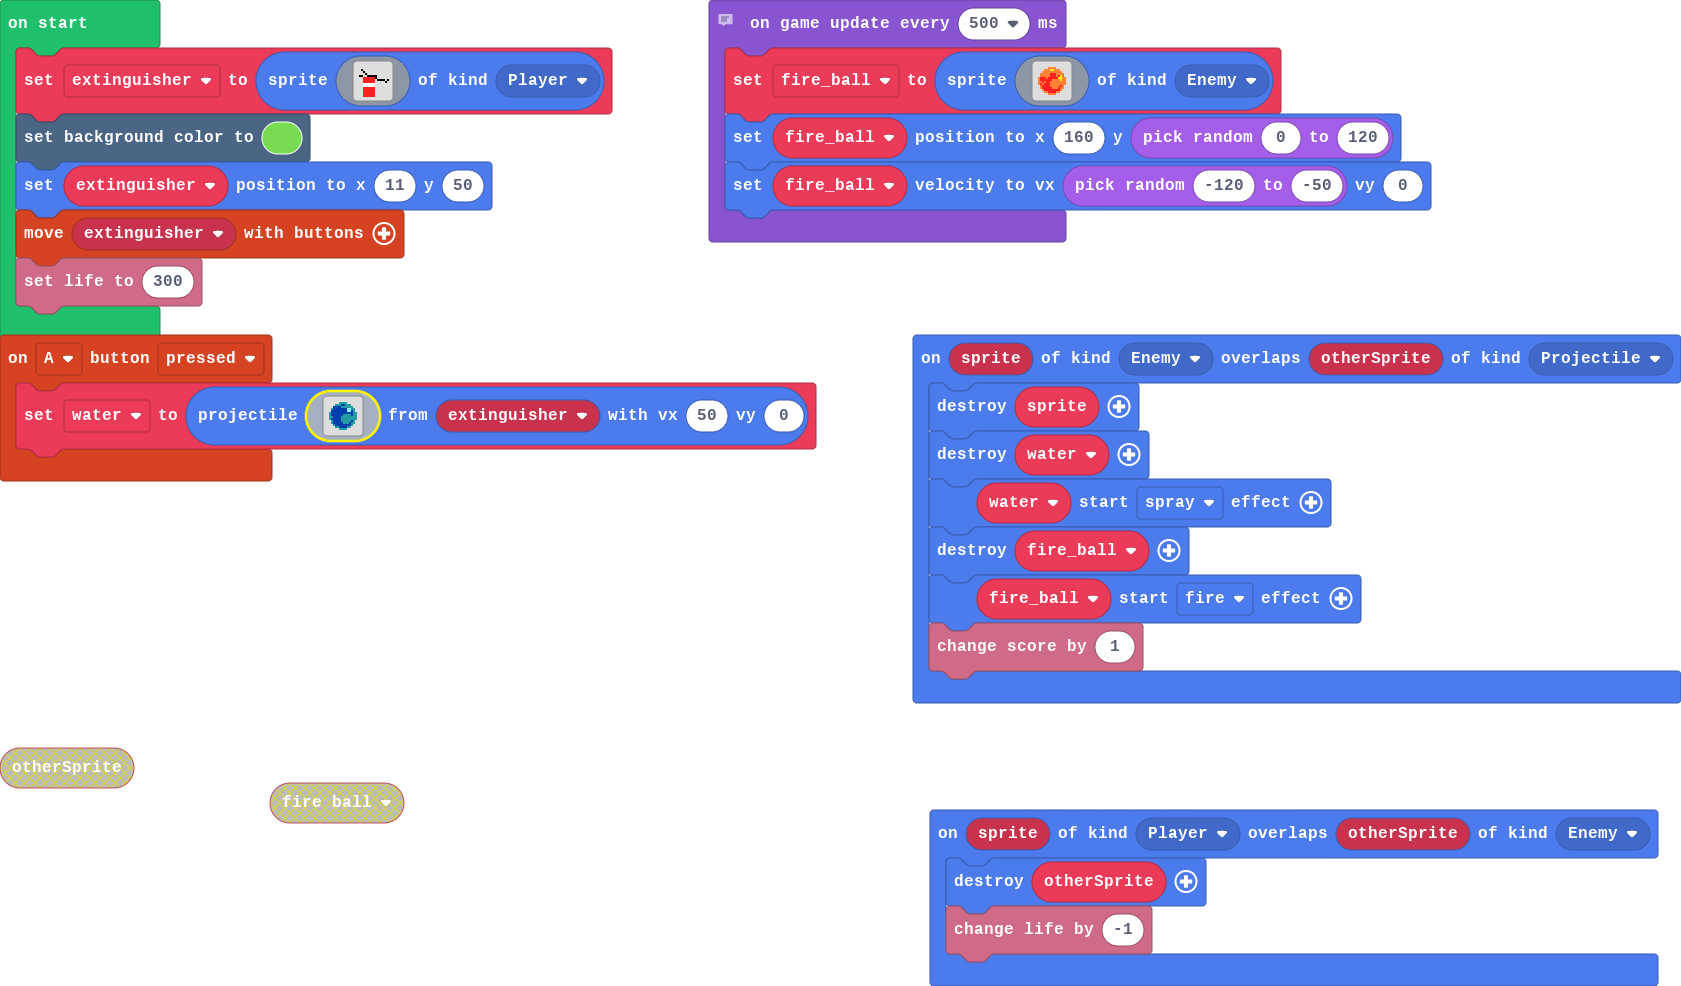
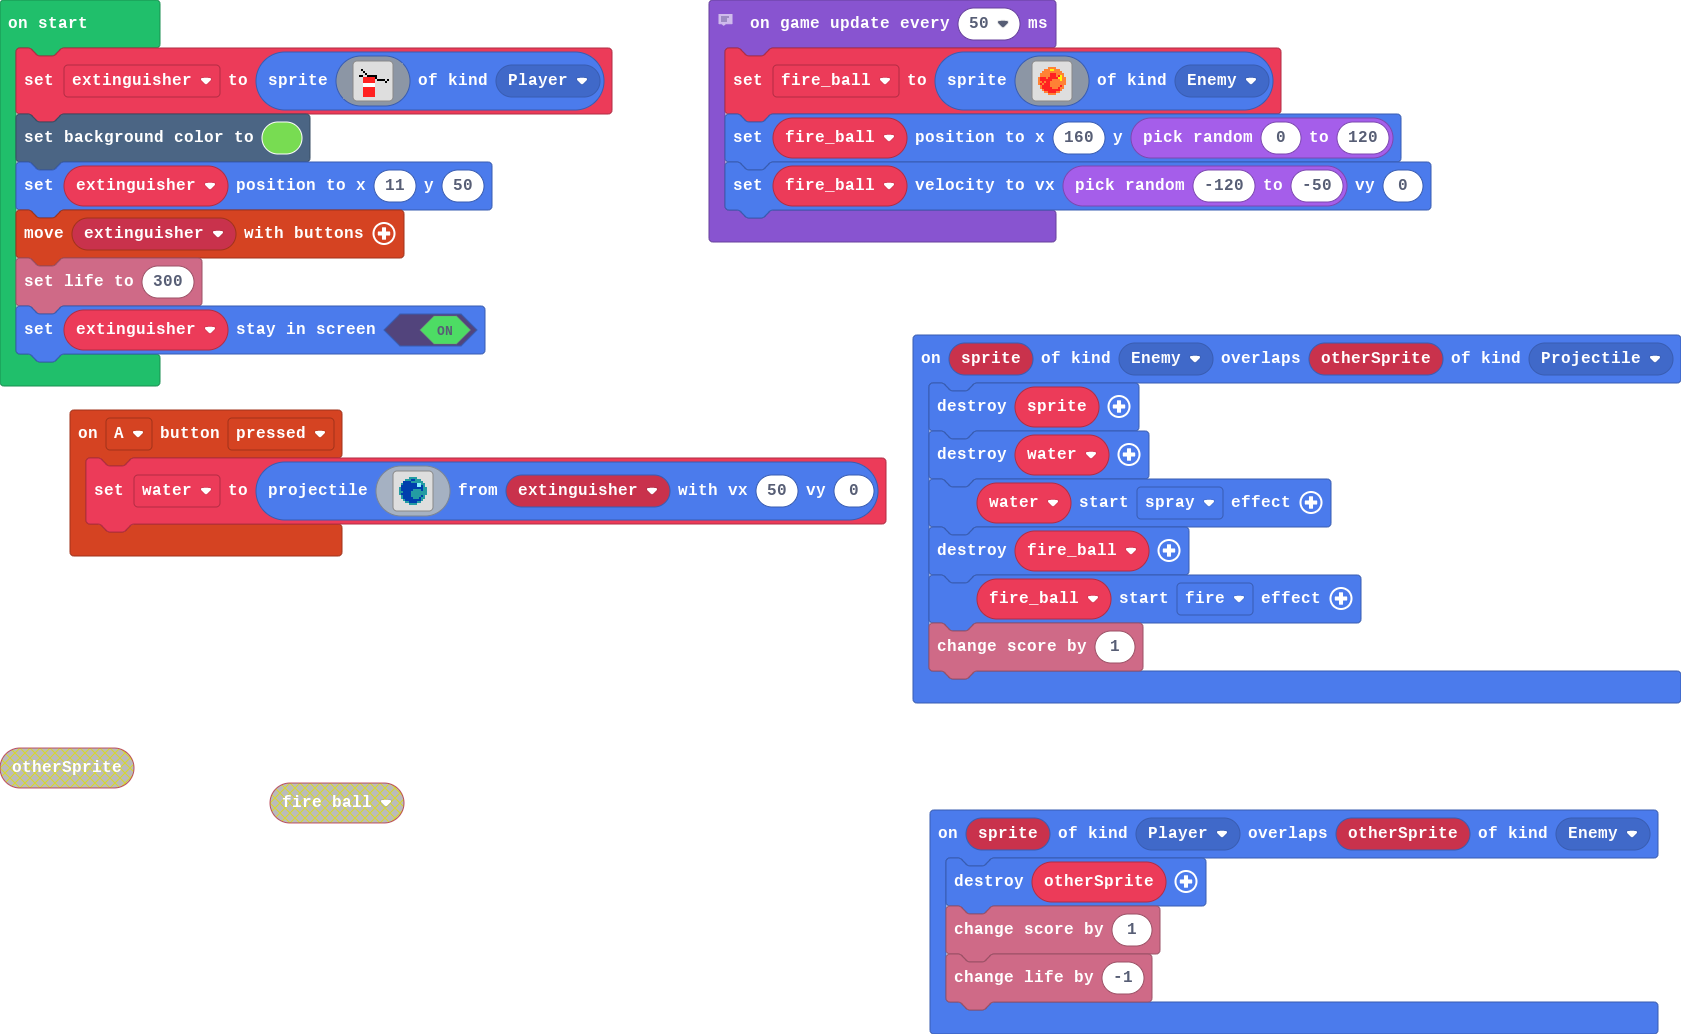
Update pxt.json, main.blocks, main.ts

diff --git a/main.ts b/main.ts
@@ -28,6 +28,7 @@ sprites.onOverlap(SpriteKind.Enemy, SpriteKind.Projectile, function (sprite, oth
 })
 sprites.onOverlap(SpriteKind.Player, SpriteKind.Enemy, function (sprite, otherSprite) {
     otherSprite.destroy()
+    info.changeScoreBy(1)
     info.changeLifeBy(-1)
 })
 let fire_ball: Sprite = null
@@ -55,8 +56,9 @@ scene.setBackgroundColor(7)
 extinguisher.setPosition(11, 50)
 controller.moveSprite(extinguisher)
 info.setLife(300)
+extinguisher.setStayInScreen(true)
 // on every 2 second, creat fire
-game.onUpdateInterval(500, function () {
+game.onUpdateInterval(50, function () {
     fire_ball = sprites.create(img`
         . . . . . . . . . . . . . . . . 
         . . . . . . 4 4 4 4 . . . . . . 
